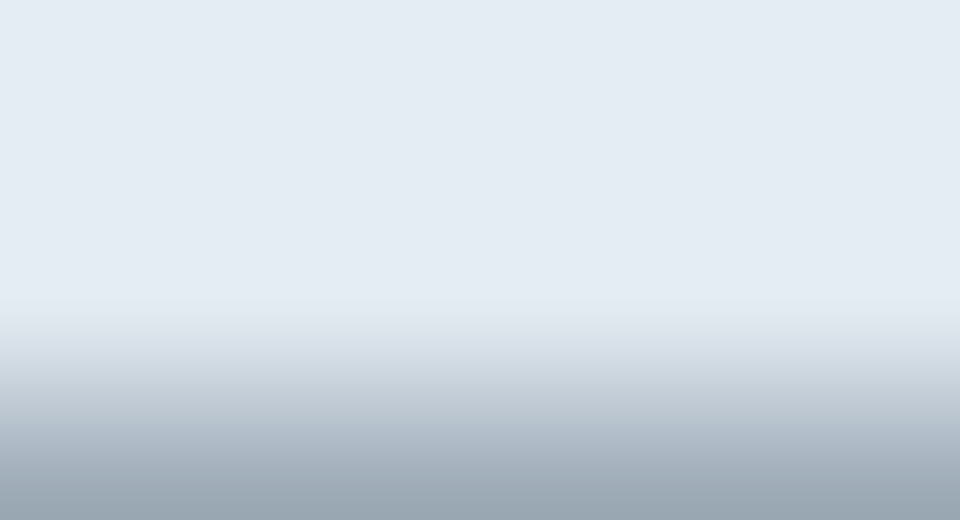
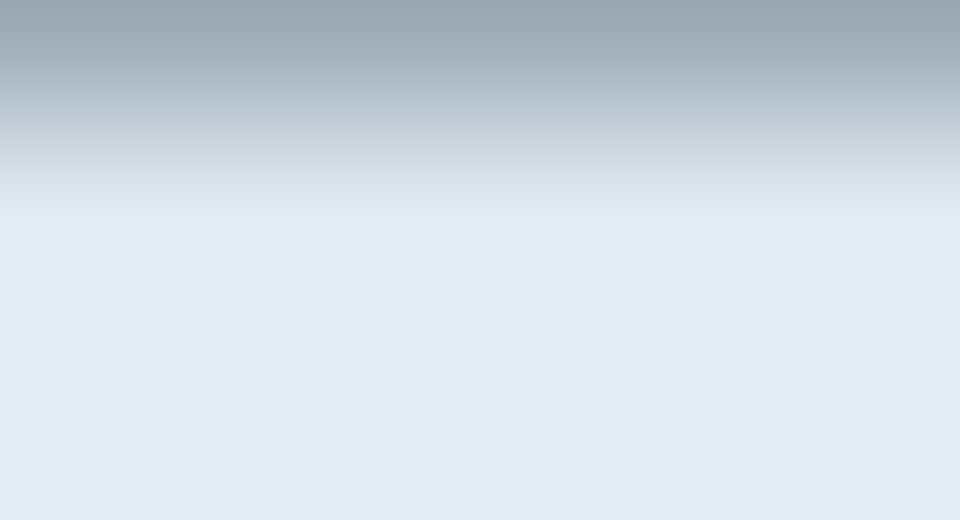
dashboard bkg15

diff --git a/app/assets/stylesheets/Modules/document_list.sass b/app/assets/stylesheets/Modules/document_list.sass
@@ -5,8 +5,8 @@
 
 .index-graph
   font-family: 'Merriweather Sans', sans-serif
-  width: 100%
-  background: #e2edf6
+  background-image: url('how2.png')
+  background-size: contain
   background-repeat:repeat-x
 
 .index-hr
